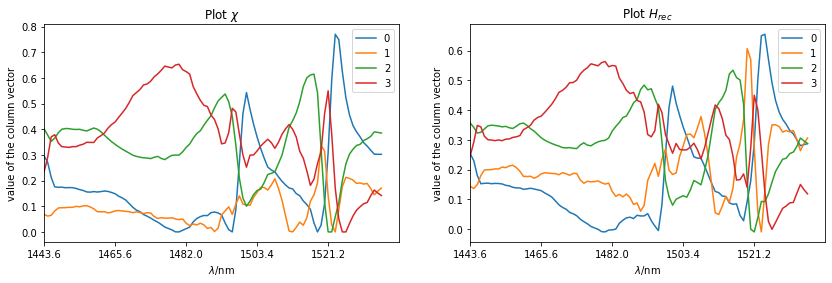
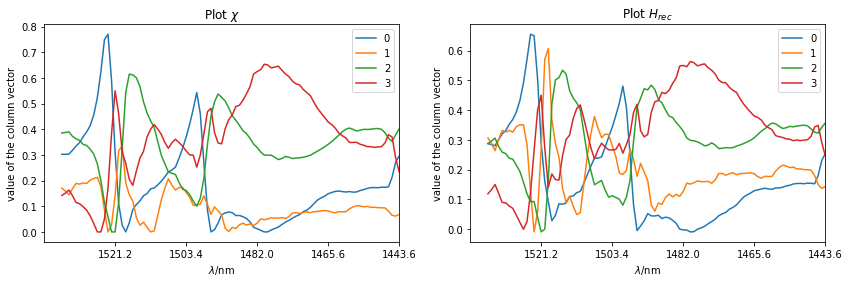
preparing figures for overlaf

diff --git a/method_density.py b/method_density.py
@@ -47,16 +47,24 @@ def countmatrix(M, avg=1):
 #a = np.random.rand(4,4) - np.random.rand(4,4)
 #count_a = countmatrix(a)
 #%%
-trialmtx = np.loadtxt('iso_br_al_cor_py2_400nm_ex_ir.txt')[1:,1:]
+#trialmtx = np.loadtxt('iso_br_al_cor_py2_400nm_ex_ir.txt')[1:,1:]
+data = np.loadtxt("iso_br_al_cor_py2_400nm_ex_ir.txt")
+trialmtx = data[1:,1:]
 red_mtx = three_states_system(trialmtx)
 #trialmtxpos = trialmtx-np.amin(trialmtx)
+plt.figure(figsize=(12,4))
+plt.subplot(1, 2, 1)
 plt.imshow(trialmtx, cmap='inferno', aspect='auto')
 plt.colorbar()
 plt.title("spectrum")
-plt.show()
-plt.imshow(red_mtx, cmap="inferno",aspect = "auto")
+plt.xticks(np.arange(len(data[0,1:]), step=20),labels=np.round(data[0,1::20],1))
+plt.yticks(np.arange(len(data[1:,0]), step=20),labels=np.round(data[1::20,0],1))
+plt.subplot(1, 2, 2)
+plt.imshow(red_mtx, cmap="inferno_r",aspect = "auto")
 plt.colorbar()
 plt.title("reduced three states system")
+plt.xticks(np.arange(len(data[0,1:]), step=20),labels=np.round(data[0,1::20],1))
+plt.yticks(np.arange(len(data[1:,0]), step=20),labels=np.round(data[1::20,0],1))
 plt.show()
 count_tm = countmatrix(red_mtx, 1)
 plt.imshow(count_tm)
@@ -69,9 +77,16 @@ plt.show()
 
 #plt.show()
 #%%
-chi_k = cmdtools.pcca(count_tm, 4)
-plt.imshow(chi_k, cmap="inferno", aspect="auto")
-plt.title("$\chi$ from count matrix")
-plt.colorbar()
+Chi = cmdtools.pcca(count_tm, 4)
+#plt.imshow(chi_k, cmap="inferno", aspect= "auto", interpolation= "nearest")
+#plt.title("$\chi$ from count matrix")
+#plt.colorbar()
+#plt.show()
+for i in range(len(Chi.T)):
+    plt.plot(Chi.T[i], label=i)
+    plt.xticks(np.arange(len(data[0,1:]), step=20),labels=np.round(data[0,1::20],1), label=i)
+    plt.legend()
+    plt.xlim(100,0)
+    plt.xlabel("$\lambda/nm$")
+    plt.title("$\chi$")
 plt.show()
-

diff --git a/nmf_applied_ir.py b/nmf_applied_ir.py
@@ -17,7 +17,7 @@ trialmtx = data[1:,1:]
 
 parameters = [-0.00001, -100., 100., .1, 10.]
 
-M_rec, W_rec, H_rec, P_rec, A_opt, Chi, UitGramSchmidt = nmf(trialmtx[96:,:],4, parameters) 
+M_rec, W_rec, H_rec, P_rec, A_opt, Chi, UitGramSchmidt = nmf(trialmtx[:,:],4, parameters) 
 #%%
 plt.figure(figsize=(13,7))
 plt.subplot(1, 2, 1)
@@ -35,10 +35,10 @@ plt.show()
 
 #%%
 plt.figure(figsize=(10,5))
-plt.imshow(abs(np.dot(W_rec,H_rec)-trialmtx[96:,:]))
+plt.imshow(abs(np.dot(W_rec,H_rec)-trialmtx[:,:]))
 plt.colorbar()
 plt.show()
-print('max error:', np.amax(abs(np.dot(W_rec,H_rec)-trialmtx[96:,:])), 'min error:', np.amin(abs(np.dot(W_rec,H_rec)-trialmtx[96:,:])))
+print('max error:', np.amax(abs(np.dot(W_rec,H_rec)-trialmtx[:,:])), 'min error:', np.amin(abs(np.dot(W_rec,H_rec)-trialmtx[:,:])))
 plt.imshow(H_rec, aspect= "auto", interpolation="nearest")
 plt.show()
 plt.imshow(W_rec, aspect= "auto", interpolation="nearest")
